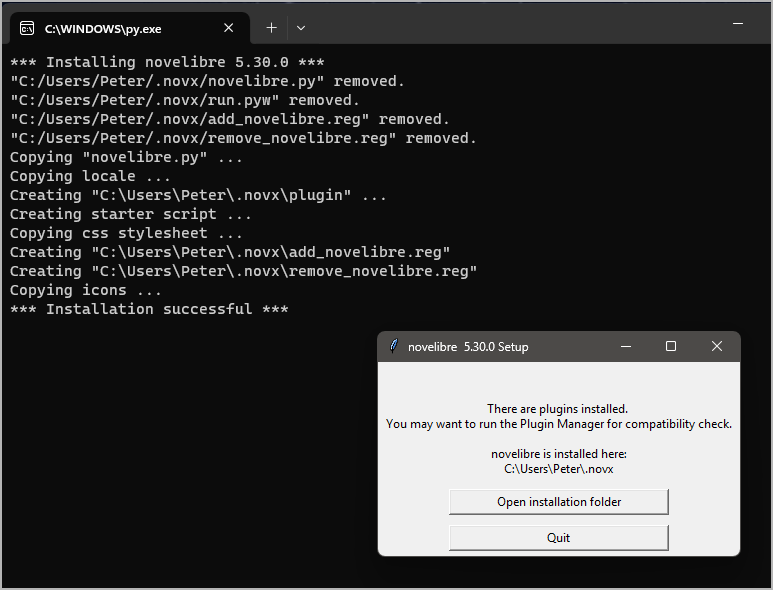
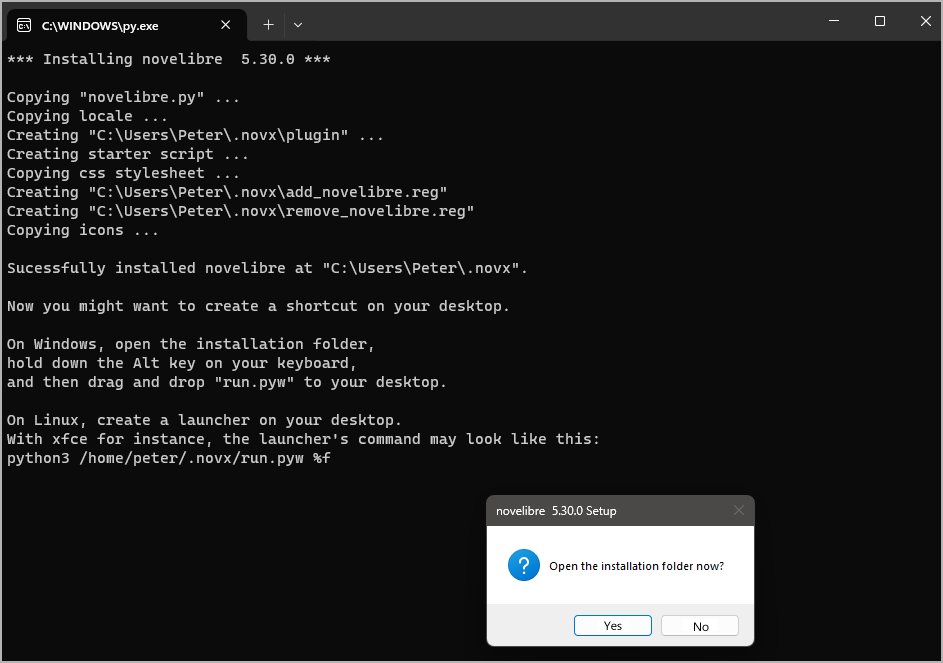
Updated screenshots and the preparations page.

Changed region(s): [[0.0, 0.0, 1.0, 1.0], [0.0, 0.9763, 0.031, 1.0]]

diff --git a/docs/preparations.html b/docs/preparations.html
@@ -153,8 +153,7 @@ file by double-clicking (Windows/Linux desktop),</p>
 </li>
 </ul>
 <p><em>“x.x.x”</em> means the version number.</p>
-<p>In both cases, a pop-up window should appear indicating
-that the installation was successful.</p>
+<p>In both cases, a success message should appear.</p>
 <img alt="Example (Windows)" src="_images/preparations13.png" />
 <div class="admonition important">
 <p class="admonition-title">Important</p>
